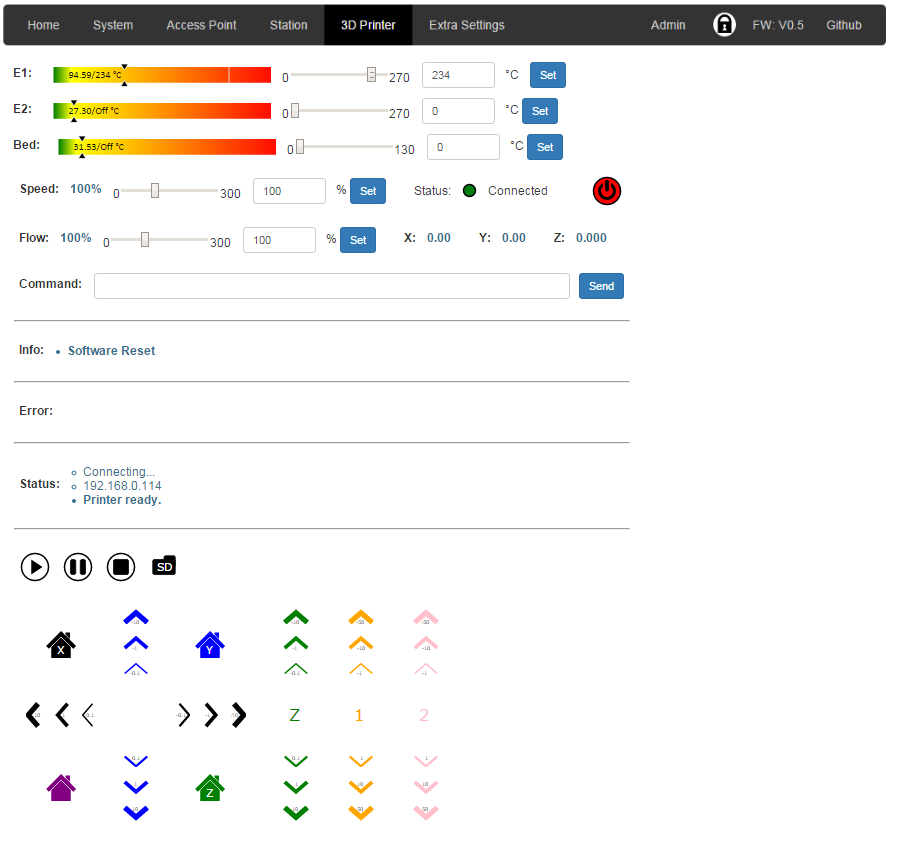
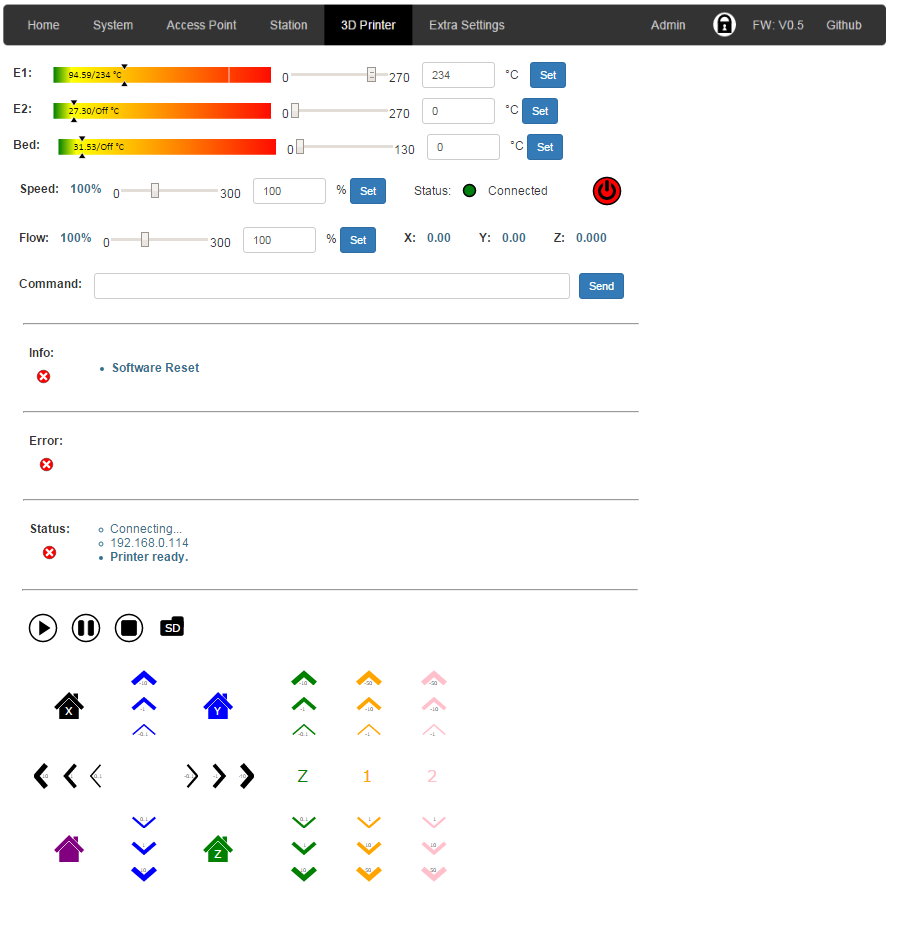
Add commands to clear logs
[ESP999]ERROR for error logs,
[ESP999]INFO for info logs,
[ESP999]STATUS for status logs,
[ESP999]ALL for all logs,

diff --git a/esp8266/webinterface.cpp b/esp8266/webinterface.cpp
@@ -32,6 +32,7 @@ extern "C" {
 #include <FS.h>
 #include "LinkedList.h"
 #include "storestrings.h"
+#include "command.h"
 
 #ifdef SSDP_FEATURE
 #include <ESP8266SSDP.h>
@@ -3091,6 +3092,25 @@ void handle_web_command()
 		  Serial.println(scmd);
 		  //give an ack - we need to be polite, right ?
 		  web_interface->WebServer.send(200,"text/plain","Ok");
+		  //if it is for ESP module [ESPXXX]<parameter>
+		  int ESPpos = scmd.indexOf("[ESP");
+		  if (ESPpos>-1)
+			{//is there the second part?
+			int ESPpos2 = scmd.indexOf("]",ESPpos);	
+			if (ESPpos2>-1)
+				{	//Split in command and parameters
+					String cmd_part1=scmd.substring(ESPpos+4,ESPpos2);
+					String cmd_part2="";
+					//is there space for parameters?
+					if (ESPpos2<scmd.length())
+						{
+						cmd_part2=scmd.substring(ESPpos2+1);
+						}
+					//if command is a valid number then execute command
+					if(cmd_part1.toInt()!=0)COMMAND::execute_command(cmd_part1.toInt(),cmd_part2);
+					//if not is not a valid [ESPXXX] command
+				}
+			}
 	  }
 }
 

diff --git a/esp8266/command.cpp b/esp8266/command.cpp
@@ -95,6 +95,26 @@ void COMMAND::execute_command(int cmd,String cmd_params)
 				Serial.print("\r\n");
 				}
 		break;
+		case 999:
+			if (cmd_params=="ERROR")
+			{
+				web_interface->error_msg.clear();
+			}
+			else if (cmd_params=="INFO")
+			{
+				web_interface->info_msg.clear();
+			}
+			else if (cmd_params=="STATUS")
+			{
+				web_interface->status_msg.clear();
+			}
+			else if (cmd_params=="ALL")
+			{
+				web_interface->error_msg.clear();
+				web_interface->status_msg.clear();
+				web_interface->info_msg.clear();
+			}
+		break;
 		//default:
 
 	}
